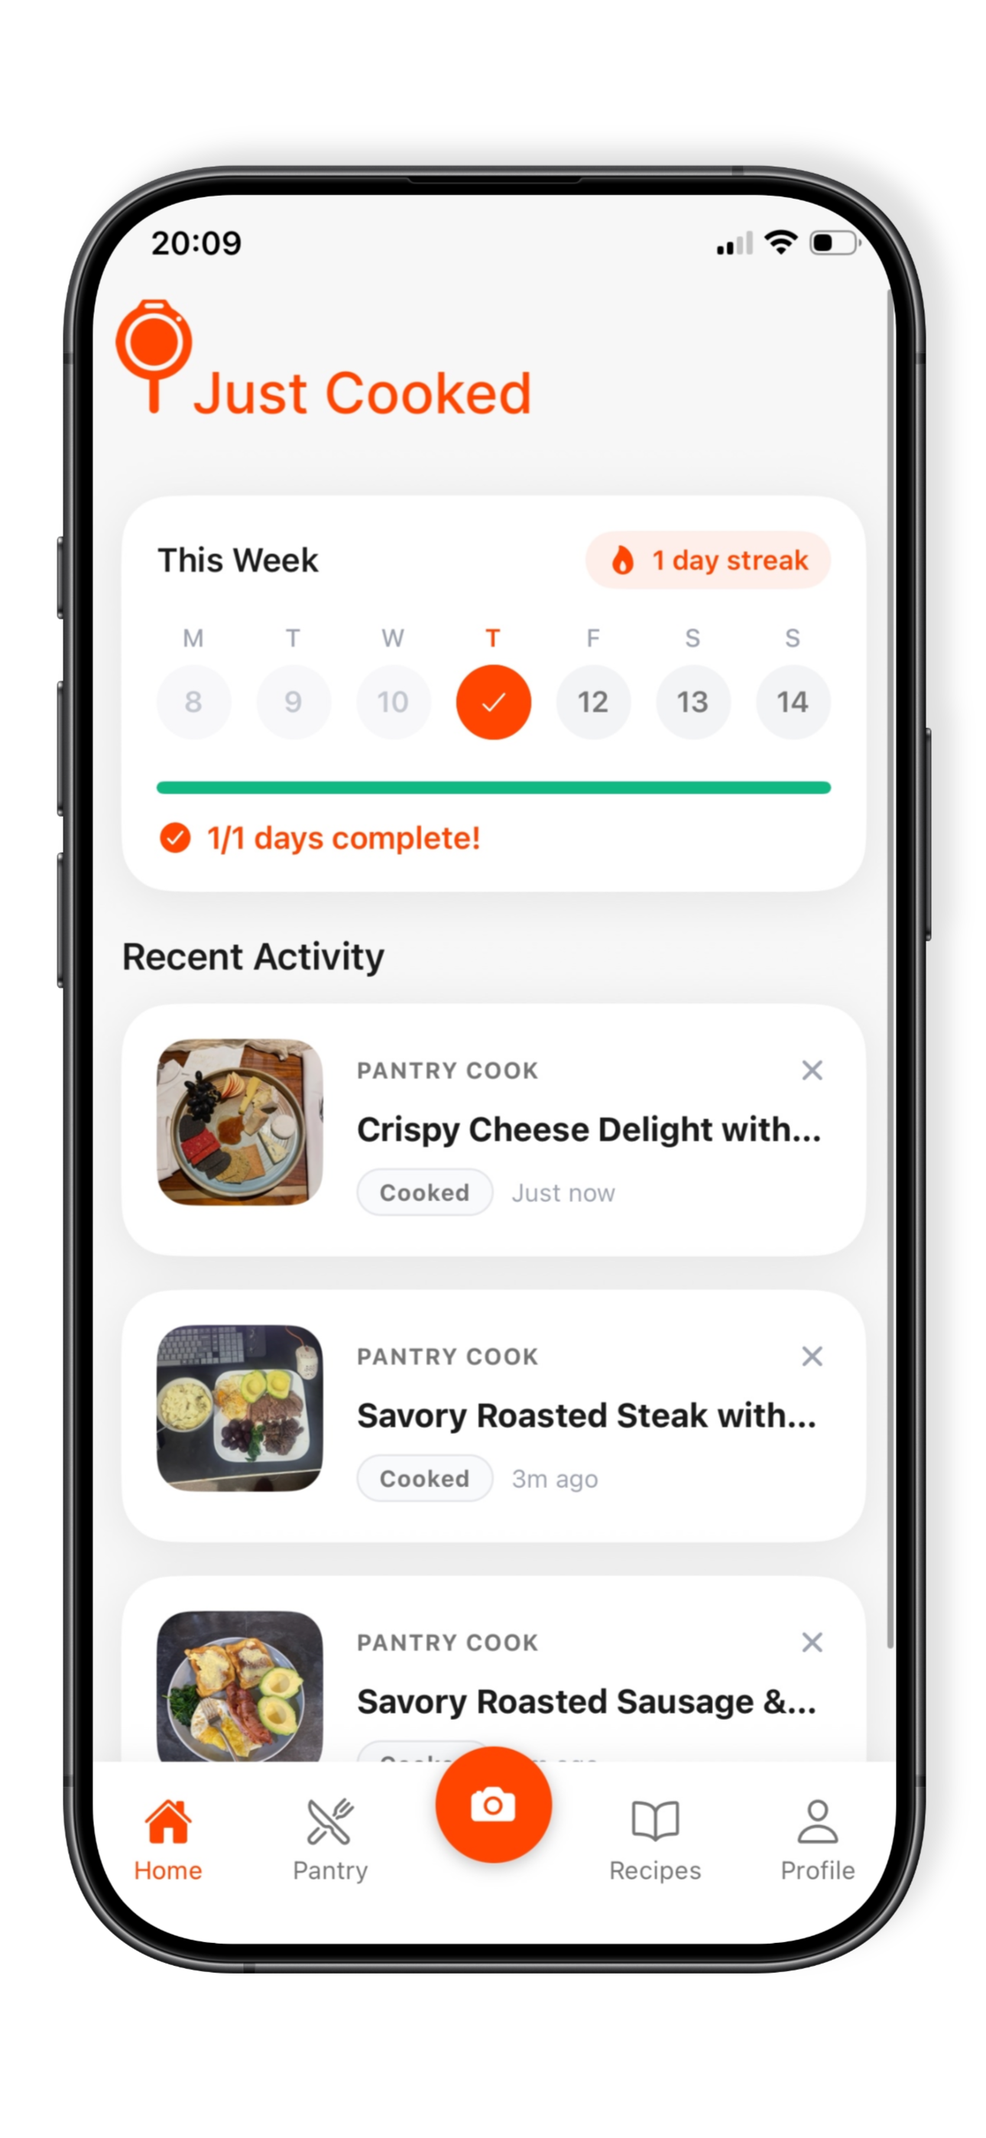
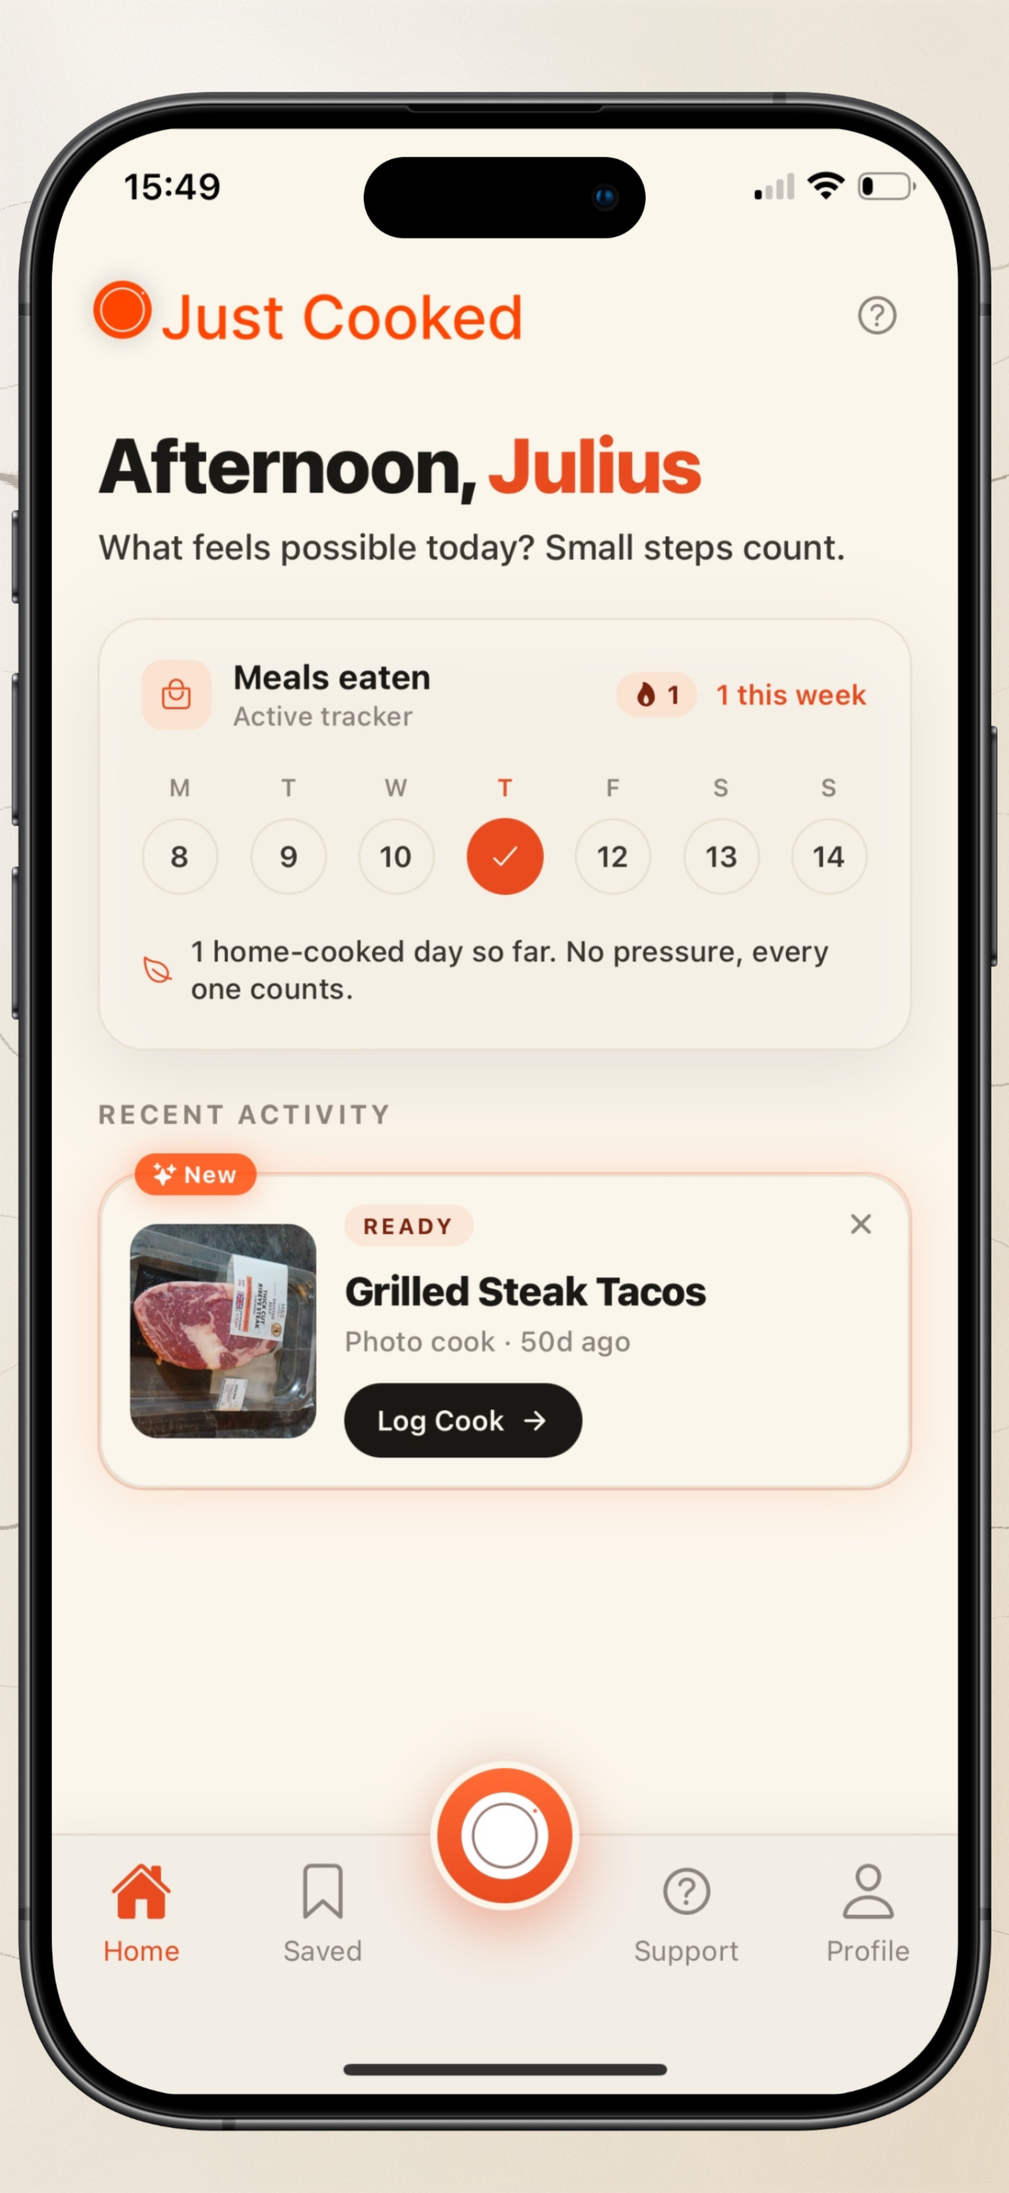
Integrate rebrand app screenshots into homepage
- Hero: reorder on mobile (headline -> phone -> store badges) so the MainHero
  image and the App Store / Play Store badges sit together in one viewport;
  desktop keeps the centered two-column split.
- Next Meal: add NextMeal + RecipeResult phones side by side (flow -> result).
- Savings showcase: replace stale overlapping PhotoCook/PhotoResult with the
  TakeawaySupportFeature savings screen.
- Support hub: add SupportHero + SupportFeaturesToggle side by side; dark shots
  blend into the beat's navy core.
- Add .hero-layout grid + .phone-shot framing utilities; screenshots always sit
  side by side, never overlapping.
- Remove out-of-date PhotoCook.png and PhotoResult.png.

diff --git a/index.html b/index.html
@@ -75,64 +75,65 @@
             </div>
 
             <div class="container mx-auto px-4 relative z-10">
-                <div class="grid lg:grid-cols-2 items-center gap-12 lg:gap-8 max-w-7xl mx-auto">
-                    <!-- Text -->
-                    <div class="text-center lg:text-left">
-                        <div class="inline-flex items-center gap-2 px-4 py-1.5 rounded-full border border-[#E0D5C2] bg-[#FBF6EC]/70 backdrop-blur-md shadow-sm mb-7 animate-fade-up opacity-0" style="animation-delay: 0.1s;">
+                <div class="hero-layout max-w-7xl mx-auto">
+                    <!-- Intro: eyebrow + headline + lede -->
+                    <div class="hero-intro text-center lg:text-left">
+                        <div class="inline-flex items-center gap-2 px-4 py-1.5 rounded-full border border-[#E0D5C2] bg-[#FBF6EC]/70 backdrop-blur-md shadow-sm mb-6 animate-fade-up opacity-0" style="animation-delay: 0.1s;">
                             <span class="w-2 h-2 rounded-full bg-orange-500"></span>
                             <span class="text-xs font-semibold tracking-wide text-orange-700">For when food feels hard.</span>
                         </div>
 
-                        <h1 class="font-extrabold tracking-tight mb-6 animate-fade-up opacity-0 leading-[1.04]" style="animation-delay: 0.2s; font-size: clamp(2.4rem, 7vw, 4.25rem);">
+                        <h1 class="font-extrabold tracking-tight mb-5 animate-fade-up opacity-0 leading-[1.04]" style="animation-delay: 0.2s; font-size: clamp(2.2rem, 6.6vw, 4.25rem);">
                             When food feels hard,<br>
                             <span class="text-orange-500">we make the next meal easier.</span>
                         </h1>
 
-                        <p class="text-lg md:text-xl text-[#3A342E] font-medium mb-8 max-w-xl mx-auto lg:mx-0 animate-fade-up opacity-0 leading-relaxed" style="animation-delay: 0.3s;">
+                        <p class="text-base sm:text-lg md:text-xl text-[#3A342E] font-medium mb-0 max-w-xl mx-auto lg:mx-0 animate-fade-up opacity-0 leading-relaxed" style="animation-delay: 0.3s;">
                             Food feels hard for a lot of people. Just Cooked helps you find your way back, one small meal at a time.
                         </p>
-
-                        <div class="flex flex-col items-center lg:items-start gap-5 animate-fade-up opacity-0" style="animation-delay: 0.4s;">
-                            <a href="/download" class="btn-pill w-full sm:w-auto">
-                                Start where you are.
-                                <svg width="18" height="18" viewBox="0 0 24 24" fill="none" stroke="currentColor" stroke-width="2.5" stroke-linecap="round" stroke-linejoin="round"><path d="M5 12h14M13 6l6 6-6 6"></path></svg>
-                            </a>
-                            <div class="flex flex-col sm:flex-row items-center gap-3 w-full sm:w-auto">
-                                <a href="https://apps.apple.com/us/app/just-cooked-smart-recipes/id6754169071" target="_blank" rel="noopener" class="store-badge store-badge--apple w-full sm:w-auto justify-center">
-                                    <i class="fab fa-apple text-3xl"></i>
-                                    <div class="text-left">
-                                        <div class="text-[10px] font-medium tracking-wider uppercase opacity-80">Download on the</div>
-                                        <div class="text-lg font-bold leading-none">App Store</div>
-                                    </div>
-                                </a>
-                                <a href="https://play.google.com/store/apps/details?id=com.justcooked.app" target="_blank" rel="noopener" class="store-badge store-badge--google w-full sm:w-auto justify-center">
-                                    <i class="fab fa-google-play text-3xl"></i>
-                                    <div class="text-left">
-                                        <div class="text-[10px] font-bold tracking-wider uppercase text-[#8B847C]">Get it on</div>
-                                        <div class="text-lg font-bold leading-none">Google Play</div>
-                                    </div>
-                                </a>
-                            </div>
-                            <div class="flex items-center gap-x-5 gap-y-2 flex-wrap justify-center lg:justify-start text-[#8B847C] text-sm font-medium pt-1">
-                                <span class="inline-flex items-center gap-1.5"><i class="fas fa-circle-check text-[#6B8159]"></i> No judgement</span>
-                                <span class="inline-flex items-center gap-1.5"><i class="fas fa-circle-check text-[#6B8159]"></i> Any amount counts</span>
-                            </div>
-                        </div>
                     </div>
 
-                    <!-- Image -->
-                    <div class="relative flex justify-center lg:justify-end animate-fade-up opacity-0" style="animation-delay: 0.35s;">
+                    <!-- Phone: home screen -->
+                    <div class="hero-visual relative flex justify-center mt-7 lg:mt-0 lg:justify-end animate-fade-up opacity-0" style="animation-delay: 0.35s;">
                         <div class="relative">
-                            <div class="absolute -inset-6 bg-gradient-to-br from-orange-200/35 via-transparent to-[#9CB58A]/25 rounded-[3rem] blur-3xl"></div>
-                            <img src="assets/MainHero.png" alt="The Just Cooked app on a phone" class="relative w-[15rem] sm:w-[17rem] lg:w-[20rem] h-auto rounded-[2.2rem] shadow-[0_30px_60px_rgba(26,24,21,0.22)]">
+                            <div class="phone-glow" style="background: radial-gradient(60% 55% at 50% 40%, rgba(233,75,31,0.22), rgba(156,181,138,0.16) 55%, transparent 78%);"></div>
+                            <img src="assets/MainHero.png" alt="The Just Cooked home screen on a phone, showing a gentle daily tracker and recent cooking activity" class="phone-shot phone-shot--light phone-shot--hero relative w-[12.5rem] sm:w-[15rem] lg:w-[19rem]">
                             <div class="float-chip absolute -left-4 top-12 hidden sm:flex">
                                 <span class="dot" style="background:#E4ECDC; color:#4A5C3D;"><i class="fas fa-heart"></i></span>
                                 <span class="text-xs font-semibold text-[#3A342E]">No judgement</span>
                             </div>
                             <div class="float-chip absolute -right-3 bottom-16 hidden sm:flex">
-                                <span class="dot" style="background:#FBE3D2; color:#E94B1F;"><i class="fas fa-camera"></i></span>
-                                <span class="text-xs font-semibold text-[#3A342E]">Cook from a photo</span>
+                                <span class="dot" style="background:#FBE3D2; color:#E94B1F;"><i class="fas fa-seedling"></i></span>
+                                <span class="text-xs font-semibold text-[#3A342E]">Small steps count</span>
                             </div>
+                        </div>
+                    </div>
+
+                    <!-- Actions: CTA + store badges + trust (kept directly under the phone on mobile) -->
+                    <div class="hero-actions flex flex-col items-center lg:items-start gap-5 animate-fade-up opacity-0" style="animation-delay: 0.4s;">
+                        <a href="/download" class="btn-pill w-full sm:w-auto">
+                            Start where you are.
+                            <svg width="18" height="18" viewBox="0 0 24 24" fill="none" stroke="currentColor" stroke-width="2.5" stroke-linecap="round" stroke-linejoin="round"><path d="M5 12h14M13 6l6 6-6 6"></path></svg>
+                        </a>
+                        <div class="flex flex-col sm:flex-row items-center gap-3 w-full sm:w-auto">
+                            <a href="https://apps.apple.com/us/app/just-cooked-smart-recipes/id6754169071" target="_blank" rel="noopener" class="store-badge store-badge--apple w-full sm:w-auto justify-center">
+                                <i class="fab fa-apple text-3xl"></i>
+                                <div class="text-left">
+                                    <div class="text-[10px] font-medium tracking-wider uppercase opacity-80">Download on the</div>
+                                    <div class="text-lg font-bold leading-none">App Store</div>
+                                </div>
+                            </a>
+                            <a href="https://play.google.com/store/apps/details?id=com.justcooked.app" target="_blank" rel="noopener" class="store-badge store-badge--google w-full sm:w-auto justify-center">
+                                <i class="fab fa-google-play text-3xl"></i>
+                                <div class="text-left">
+                                    <div class="text-[10px] font-bold tracking-wider uppercase text-[#8B847C]">Get it on</div>
+                                    <div class="text-lg font-bold leading-none">Google Play</div>
+                                </div>
+                            </a>
+                        </div>
+                        <div class="flex items-center gap-x-5 gap-y-2 flex-wrap justify-center lg:justify-start text-[#8B847C] text-sm font-medium pt-1">
+                            <span class="inline-flex items-center gap-1.5"><i class="fas fa-circle-check text-[#6B8159]"></i> No judgement</span>
+                            <span class="inline-flex items-center gap-1.5"><i class="fas fa-circle-check text-[#6B8159]"></i> Any amount counts</span>
                         </div>
                     </div>
                 </div>
@@ -204,6 +205,27 @@
                     </div>
                 </div>
 
+                <!-- The flow, shown: build your next meal, then it's ready to cook -->
+                <div class="relative max-w-md sm:max-w-lg mx-auto mt-4 mb-12 reveal r-d2">
+                    <div class="phone-glow" style="background: radial-gradient(55% 50% at 50% 42%, rgba(233,75,31,0.20), rgba(156,181,138,0.14) 55%, transparent 78%);"></div>
+                    <div class="phone-duo relative">
+                        <figure class="phone-figure">
+                            <img src="assets/NextMeal.png" alt="The Next Meal screen: a flagship card that builds your next meal in three guided steps" class="phone-shot phone-shot--light">
+                            <figcaption>
+                                <span class="phone-caption-step" style="background:var(--orange-soft); color:var(--orange-ink);"><i class="fas fa-wand-magic-sparkles"></i> Three steps</span>
+                                <span class="block text-[#3A342E]">Build your next meal</span>
+                            </figcaption>
+                        </figure>
+                        <figure class="phone-figure">
+                            <img src="assets/RecipeResult.png" alt="A finished recipe in Just Cooked, with time, difficulty and a Cook this recipe button" class="phone-shot phone-shot--light">
+                            <figcaption>
+                                <span class="phone-caption-step" style="background:var(--sage-soft); color:var(--sage-ink);"><i class="fas fa-bowl-food"></i> Ready to cook</span>
+                                <span class="block text-[#3A342E]">A recipe, plated up</span>
+                            </figcaption>
+                        </figure>
+                    </div>
+                </div>
+
                 <p class="text-center text-[#8B847C] font-medium reveal max-w-xl mx-auto">
                     You see exactly what we will make before anything happens. Then it is one tap, and we take the deciding off your plate.
                 </p>
@@ -214,12 +236,19 @@
         <section class="py-20 md:py-28 relative">
             <div class="container mx-auto px-4 max-w-6xl">
                 <div class="grid lg:grid-cols-2 items-center gap-12 lg:gap-20">
-                    <!-- Phones -->
-                    <div class="relative reveal">
-                        <div class="absolute -inset-6 bg-gradient-to-tr from-[#9CB58A]/25 via-transparent to-orange-100/45 rounded-[3rem] blur-3xl"></div>
-                        <div class="relative flex justify-center items-start gap-4 sm:gap-6">
-                            <img src="assets/PhotoCook.png" alt="Cooking with what you already have" class="w-1/2 max-w-[12rem] h-auto rounded-[1.75rem] shadow-[0_22px_46px_rgba(26,24,21,0.18)] -rotate-3">
-                            <img src="assets/PhotoResult.png" alt="A meal made instead of a takeaway" class="w-1/2 max-w-[12rem] h-auto rounded-[1.75rem] shadow-[0_22px_46px_rgba(26,24,21,0.18)] rotate-3 mt-10">
+                    <!-- Phone: the takeaway savings tally -->
+                    <div class="relative reveal flex justify-center lg:justify-start">
+                        <div class="relative w-[14.5rem] sm:w-[16rem] lg:w-[17.5rem]">
+                            <div class="phone-glow" style="background: radial-gradient(58% 52% at 50% 42%, rgba(156,181,138,0.28), rgba(233,75,31,0.14) 55%, transparent 80%);"></div>
+                            <img src="assets/TakeawaySupportFeature.png" alt="The Just Cooked savings screen, tallying the money saved by cooking instead of ordering takeaway" class="phone-shot phone-shot--dark relative">
+                            <div class="float-chip absolute -right-4 top-10 hidden sm:flex">
+                                <span class="dot" style="background:#E4ECDC; color:#4A5C3D;"><i class="fas fa-piggy-bank"></i></span>
+                                <span class="text-xs font-semibold text-[#3A342E]">Saved by cooking</span>
+                            </div>
+                            <div class="float-chip absolute -left-4 bottom-14 hidden sm:flex">
+                                <span class="dot" style="background:#FBE3D2; color:#E94B1F;"><i class="fas fa-arrow-trend-up"></i></span>
+                                <span class="text-xs font-semibold text-[#3A342E]">It adds up</span>
+                            </div>
                         </div>
                     </div>
                     <!-- Copy -->
@@ -261,6 +290,27 @@
                     <p class="reveal r-d2 text-lg leading-relaxed" style="color:rgba(245,239,230,0.78);">
                         It is the one space in Just Cooked made just for the harder days. Seven gentle tools so far, picked for you based on what you share during setup, and your hub keeps growing.
                     </p>
+                </div>
+
+                <!-- The Support screens themselves (dark shots blend into this beat) -->
+                <div class="relative max-w-md sm:max-w-lg mx-auto mb-16 reveal r-d2">
+                    <div class="phone-glow" style="background: radial-gradient(55% 50% at 50% 45%, rgba(255,176,122,0.20), rgba(155,181,138,0.12) 55%, transparent 78%);"></div>
+                    <div class="phone-duo relative">
+                        <figure class="phone-figure">
+                            <img src="assets/SupportHero.png" alt="The Support home screen, with a panic button for the hardest moments and a takeaway savings summary" class="phone-shot phone-shot--dark">
+                            <figcaption style="color:rgba(245,239,230,0.82);">
+                                <span class="phone-caption-step" style="background:rgba(255,107,53,0.18); color:#FFB07A;"><i class="fas fa-hand-holding-heart"></i> Your toolbox</span>
+                                <span class="block">Support, when you need it</span>
+                            </figcaption>
+                        </figure>
+                        <figure class="phone-figure">
+                            <img src="assets/SupportFeaturesToggle.png" alt="The Support settings screen, where you switch on only the tools that help you" class="phone-shot phone-shot--dark">
+                            <figcaption style="color:rgba(245,239,230,0.82);">
+                                <span class="phone-caption-step" style="background:rgba(155,181,138,0.20); color:#C2D5A6;"><i class="fas fa-sliders"></i> Yours to set</span>
+                                <span class="block">Switch on only what helps</span>
+                            </figcaption>
+                        </figure>
+                    </div>
                 </div>
 
                 <div class="grid grid-cols-1 sm:grid-cols-2 lg:grid-cols-4 gap-5 mb-12">

diff --git a/premium.css b/premium.css
@@ -679,3 +679,99 @@ img { max-width: 100%; }
    stay hidden, which made the policy text "disappear". This keeps it visible
    regardless. Higher specificity (.js .policy-card.reveal) wins over .js .reveal. */
 .js .policy-card.reveal { opacity: 1 !important; transform: none !important; }
+
+/* ============================================================
+   REBRAND v3 — phone screenshots + responsive hero
+   The new app screenshots already include the device frame and a
+   small background margin (cream #F2EEE7 on light shots, navy #0B1326
+   on the dark Support shots — the latter matches the Support beat core
+   exactly, so dark phones float seamlessly on it). We only add gentle
+   rounding + a soft floating shadow; never overlap the shots (the baked
+   margin reads as a border), so they always sit side by side.
+   ============================================================ */
+
+/* ── Phone screenshot framing ── */
+.phone-shot {
+    display: block;
+    width: 100%;
+    height: auto;
+    border-radius: 26px;
+    transition: transform 0.5s cubic-bezier(0.16, 1, 0.3, 1), box-shadow 0.5s;
+}
+.phone-shot--light { box-shadow: 0 26px 52px rgba(26, 24, 21, 0.20); }
+.phone-shot--dark  { box-shadow: 0 30px 60px rgba(0, 0, 0, 0.5); }
+.phone-shot--hero  { border-radius: 30px; }
+/* Gentle lift when its card/figure is hovered (desktop pointer only) */
+@media (hover: hover) {
+    .phone-figure:hover .phone-shot { transform: translateY(-6px); }
+}
+
+/* A captioned phone in a side-by-side duo */
+.phone-figure { margin: 0; display: flex; flex-direction: column; align-items: center; }
+.phone-figure figcaption {
+    margin-top: 16px;
+    font-size: clamp(12px, 3.4vw, 14px);
+    font-weight: 600;
+    letter-spacing: -0.1px;
+    text-align: center;
+    line-height: 1.35;
+}
+.phone-caption-step {
+    display: inline-flex; align-items: center; gap: 7px;
+    margin-bottom: 8px; padding: 4px 11px; border-radius: 999px;
+    font-size: 11px; font-weight: 700; letter-spacing: 0.6px; text-transform: uppercase;
+}
+
+/* Two phones, always side by side (never stacked, never overlapping). The
+   baked-in margin on each shot keeps them visually separated. */
+.phone-duo {
+    display: grid;
+    grid-template-columns: 1fr 1fr;
+    gap: 14px;
+    align-items: start;
+    justify-items: center;
+}
+@media (min-width: 640px) { .phone-duo { gap: 28px; } }
+
+/* Soft glow behind a phone / duo */
+.phone-glow {
+    position: absolute;
+    inset: -10% -6%;
+    border-radius: 48px;
+    filter: blur(60px);
+    z-index: 0;
+    pointer-events: none;
+}
+
+/* ── Responsive hero layout ──
+   Mobile (default): a single column ordered intro → phone → actions, so the
+   phone and the App Store / Google Play badges land in the SAME viewport
+   instead of the phone sitting far below the badges.
+   Desktop (lg+): two columns — the text stack (intro on top, actions below)
+   on the left, the phone spanning both rows on the right. intro hugs the
+   bottom of its row and actions hug the top of theirs, so the two meet in the
+   middle as one vertically-centred group with no gap. */
+.hero-layout {
+    display: grid;
+    row-gap: 0;
+    grid-template-areas:
+        "intro"
+        "visual"
+        "actions";
+}
+.hero-intro   { grid-area: intro; }
+.hero-visual  { grid-area: visual; }
+.hero-actions { grid-area: actions; margin-top: 28px; }
+
+@media (min-width: 1024px) {
+    .hero-layout {
+        grid-template-columns: 1.04fr 0.96fr;
+        column-gap: 3rem;
+        grid-template-areas:
+            "intro   visual"
+            "actions visual";
+    }
+    .hero-intro   { align-self: end; }
+    .hero-actions { align-self: start; margin-top: 28px; }
+    .hero-visual  { align-self: center; }
+}
